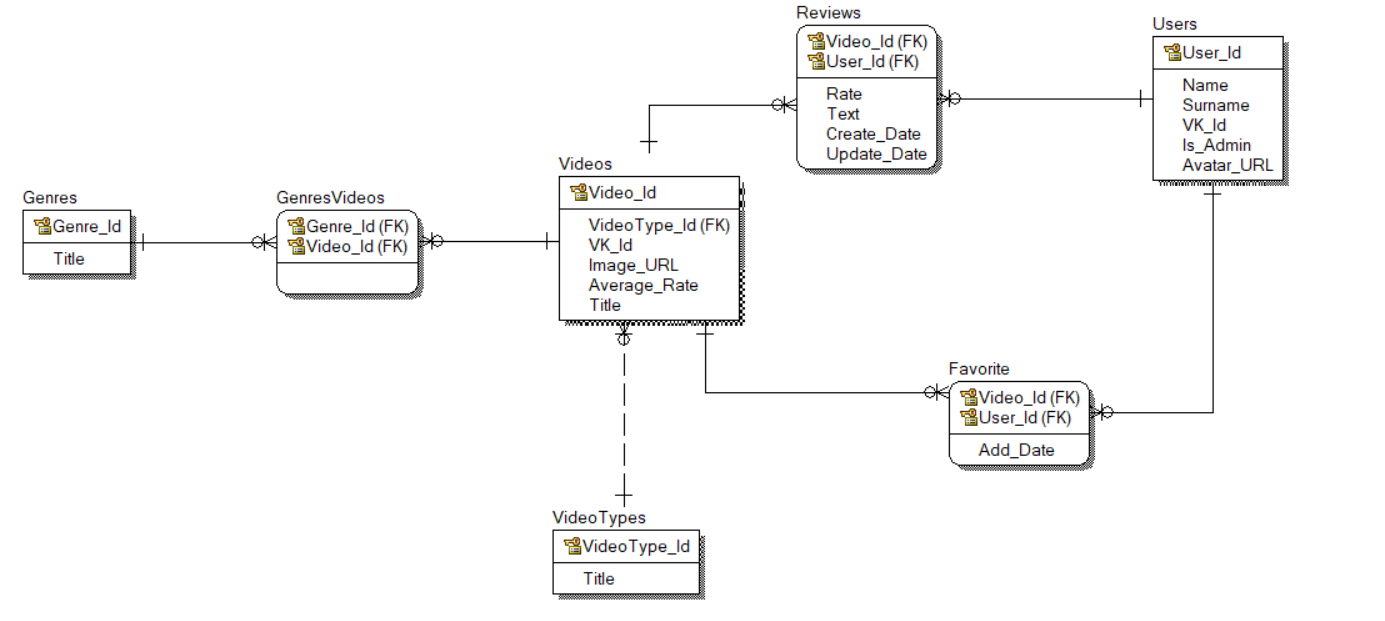
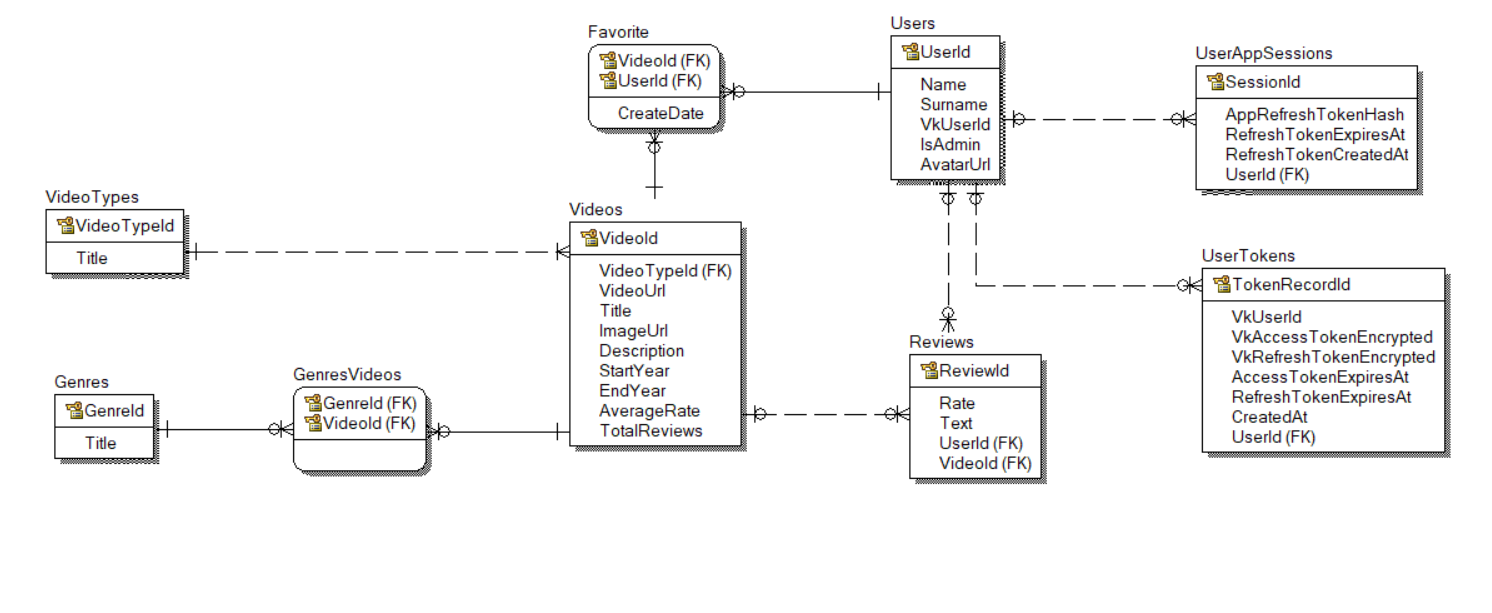
Add README.md

Changed region(s): [[0.0, 0.0, 0.9935, 0.8059], [0.4036, 0.7749, 0.5278, 0.9918]]

diff --git a/README.md b/README.md
@@ -1,0 +1,74 @@
+# VKVideoReviews
+
+Сервис для отзывов на видео из ВК с авторизацией через VK ID.
+
+## Стек
+
+- .NET 10
+- EF Core
+- PostgreSQL
+- Redis
+- Docker + Docker Compose
+- AutoMapper
+- FluentValidation
+- Serilog
+- Swagger
+- JWT
+
+## Быстрый старт (Docker)
+
+### 1) Подготовка
+
+1. Клонируйте репозиторий.
+
+### 2) Настройка VK ID
+
+1. Создайте приложение в VK ID.
+2. В allowed redirect URI укажите:
+   - `http://localhost:80/api/auth/vk/callback`
+3. Сохраните выданные ключи (`ClientId`, `ProtectedKey`, `ServiceKey`) — они понадобятся на следующем шаге.
+
+### 3) В `backend/` создайте `.env` на основе примера:
+```bash
+cp .env.example .env
+```
+Заполните значения в `.env` согласно комментариям из `.env.example`, включая ключи VK ID из шага 2.
+
+### 4) Запуск
+
+Из корня репозитория:
+
+```bash
+docker compose up -d --build
+```
+
+После запуска:
+
+- API: `http://localhost:80`
+- Swagger: `http://localhost:80/swagger`
+- PostgreSQL: `localhost:5432`
+- Redis: `localhost:6379`
+
+Приложение автоматически применяет миграции БД при старте.
+
+## Авторизация и роли
+
+- Вход начинается с `GET /api/auth/vk/login` (редирект на VK).
+- VK возвращает пользователя на `GET /api/auth/vk/callback`.
+- Backend выдает `accessToken` и `refreshToken`.
+- Обновление токенов: `POST /api/auth/tokens/refresh`.
+- Роль `Admin` назначается, если VK user id есть в `AdminVkUserIds`.
+
+## Особенности проекта
+
+- В проекте используется `Unit of Work` паттерн:
+  - `IUnitOfWork` для доменных операций (видео, жанры, отзывы, избранное).
+  - `IAuthUnitOfWork` для auth (пользователь, токены, сессии).
+- Основные write операции обернуты в транзакции (`BeginTransactionAsync` / `CommitAsync` / `RollbackAsync`) для консистентности данных.
+- Для конкурентных изменений отзывов и пересчета рейтинга видео используется пессимистичная блокировка.
+- После изменений отзывов инвалидируется кэш карточки видео в Redis, чтобы клиент всегда получал актуальный `AverageRate` и `TotalReviews`.
+
+## Схема базы данных
+
+- [ERD.png](backend/ERD.png)
+
